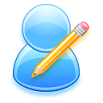
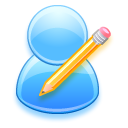
Made cosmetic changes.

diff --git a/css/style.css b/css/style.css
@@ -797,6 +797,7 @@ span#countdown {
 		box-shadow: 1px 1px 1px grey;
 		background-color: white;
 		padding: 3px;
+		width: 84px;
 	}
 	
 	.clickable_img_circular {
@@ -1674,6 +1675,10 @@ span#countdown {
  /* Dialog boxes */
 .dialog_box {
 	z-index: 10001;
+}
+
+.mc_answer {
+	margin-top: 3px;
 }
 
 .matching_questions{

diff --git a/controllers/test_editor.js b/controllers/test_editor.js
@@ -64,6 +64,7 @@ function add_question(question_type, question_text) {
 	if(validated){
 	$.ajax({
 			url: 'ajax/add_question.php',
+			type: 'POST',
 			data: { 
 				test_id: test_id,
 				question_type: question_type,

diff --git a/views/administrator/adminStudentInfo.php b/views/administrator/adminStudentInfo.php
@@ -22,7 +22,7 @@ if (isset($_SESSION['credentials'], $_REQUEST['id'])) {
 								$admin->get_students_ddl($_REQUEST["id"]);
 
 					  echo '</select></section>
-						<img src="images/edit_user.png" class="clickable_img" title="Edit This Teacher" id="btn_open_edit_studnet_dialog"  style="display:inline-block; float: right;">
+						<img src="images/edit_user.png" class="clickable_img clickable_img_square" title="Edit This Student" id="btn_open_edit_studnet_dialog"  style="display:inline-block; float: right;">
 						<hr />
 						<div id="area_student_info">
 						<table class="alt" id="content">

diff --git a/index.php b/index.php
@@ -62,9 +62,6 @@
 			ini_set('session.gc_probability', 0);
 			session_start();
 			
-			// Includes the Header for the page
-			require_once('header.php');
-			
 			if (isset($_REQUEST['action'])) {
 				switch ($_REQUEST['action']) {
 					case "admin_class_manager":
@@ -131,6 +128,10 @@
 				// <!-- Loads the Log On page -->
 				require_once('views/logon.php');
 			}
+			
+			
+			// Includes the Header for the page
+			require_once('header.php');
 		?>
 		
 		<!-- Includes the Footer for the page -->

diff --git a/views/teacher/teacherEditTest.php b/views/teacher/teacherEditTest.php
@@ -174,7 +174,7 @@ if (isset($_SESSION['credentials'], $_REQUEST['test_id'])) {
 				</div>
 				
 				<label style="float:left;">
-					<img src="images/add-icon.png" alt="(+)" class="clickable_img" style="width: 32px; padding-top: 5px;" onclick="add_mc_answer(\'\', false)" />
+					<img src="images/add-icon.png" alt="(+)" class="clickable_img" style="width: 48px; padding-top: 5px;" onclick="add_mc_answer(\'\', false)" />
 					Add Answer
 				</label>
 				<br />

diff --git a/aboutUs.php b/aboutUs.php
@@ -71,7 +71,7 @@
 											   Home Town: Washburn, MO <br />
 											   Major: Computer Information Systems<br />
 											   Year: Senior <br />
-											   Age: <?php echo floor((time() - strtotime("Apr 18, 1989 08:00:00 CST")) / (60 * 60 * 24 * 366)); ?> <br />
+											   Age: 27 <br />
 											   Fun Fact:    <br />
 									</td>
 									<td>
